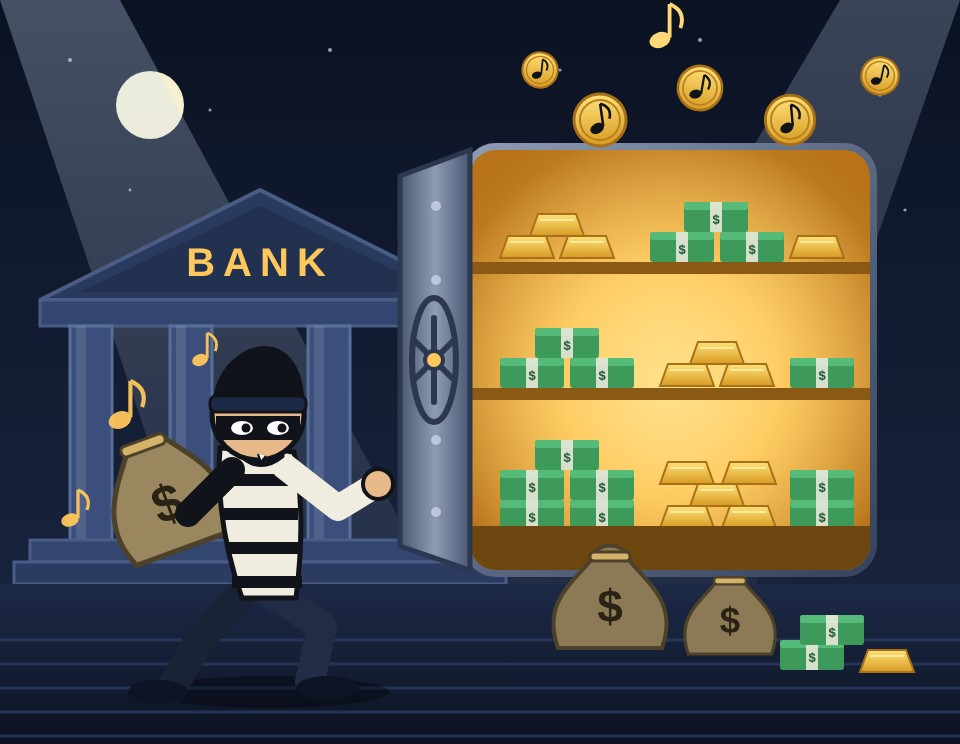
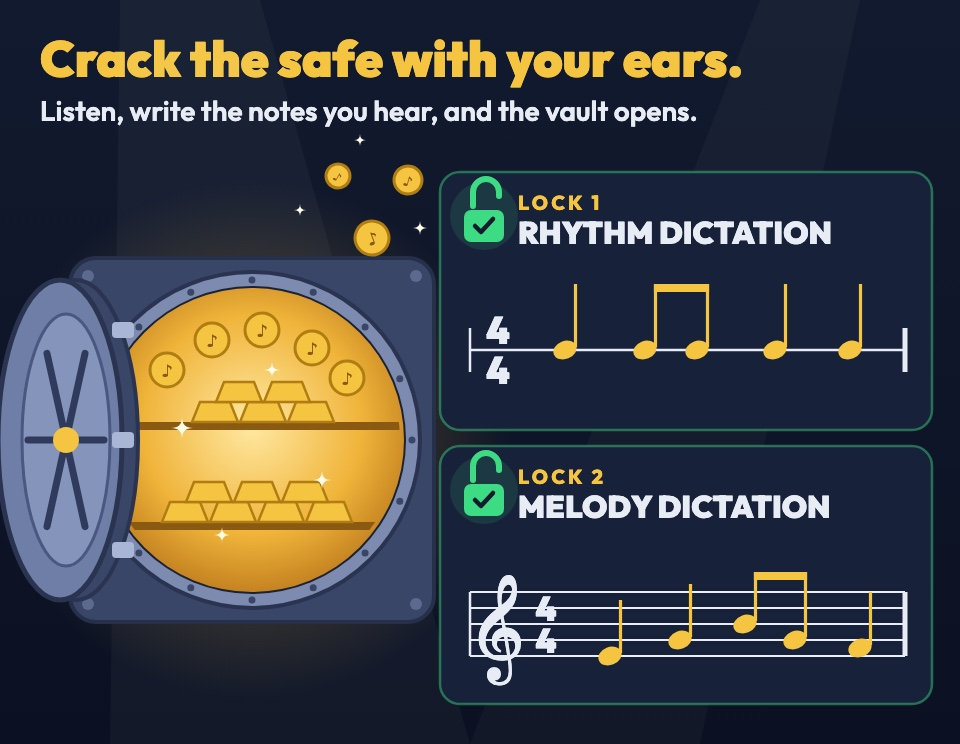
Home page: new The Big Score card picture (vault + Lock 1 rhythm / Lock 2 melody dictation) and alt text; ?v=2 so browsers fetch it

diff --git a/index.html b/index.html
@@ -627,7 +627,7 @@
 
     <a class="game rhythm" data-game="rhythm" href="https://drkeyzzz.github.io/rhythm-trainer/">
       <span class="step" aria-hidden="true"><b>5</b>Dictation</span>
-      <div class="shot"><img src="screenshots/rhythm-trainer.jpg" alt="The Big Score: a masked burglar runs out of an open bank vault full of gold and cash while music coins pour out"></div>
+      <div class="shot"><img src="screenshots/rhythm-trainer.jpg?v=2" alt="The Big Score: crack the safe with your ears. Lock 1 is rhythm dictation, Lock 2 is melody dictation, and the vault full of gold opens."></div>
       <div class="info">
         <div>
           <p class="name">The Big Score</p>
